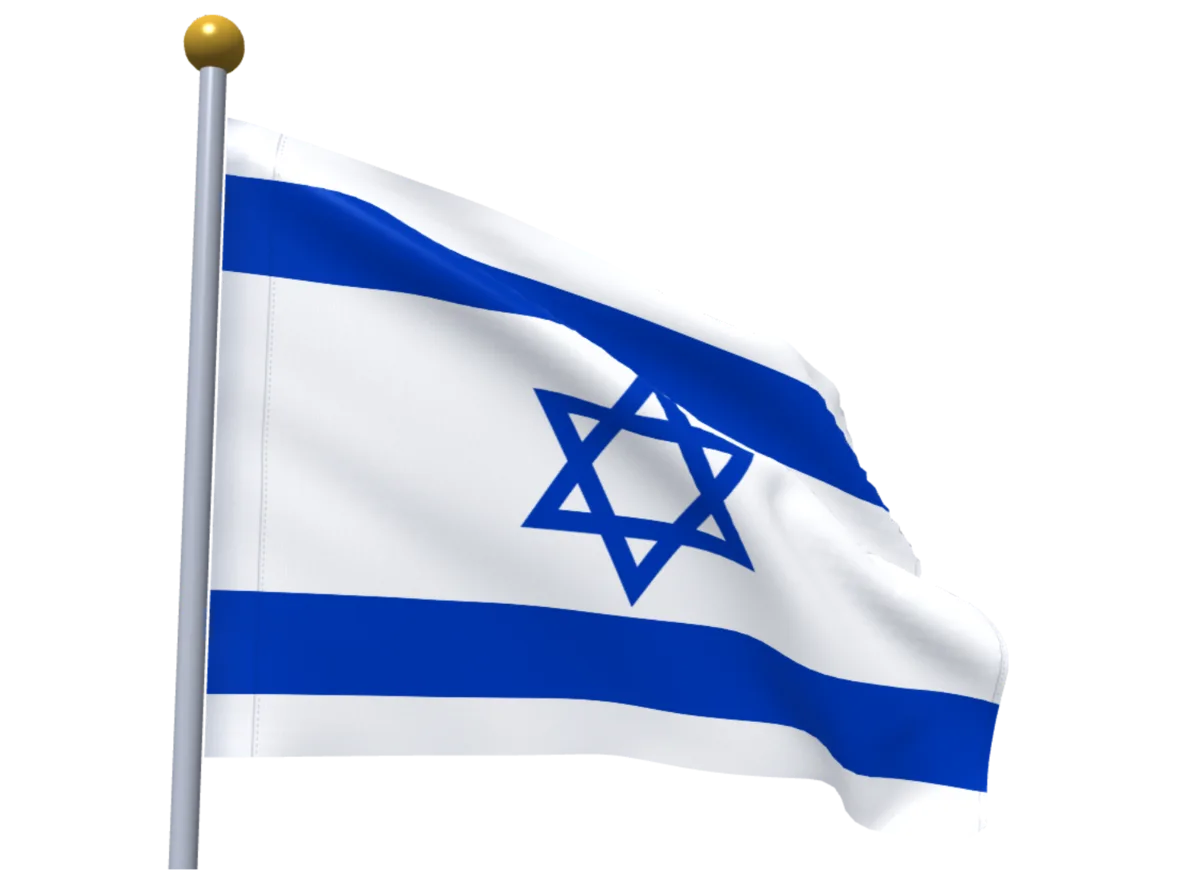
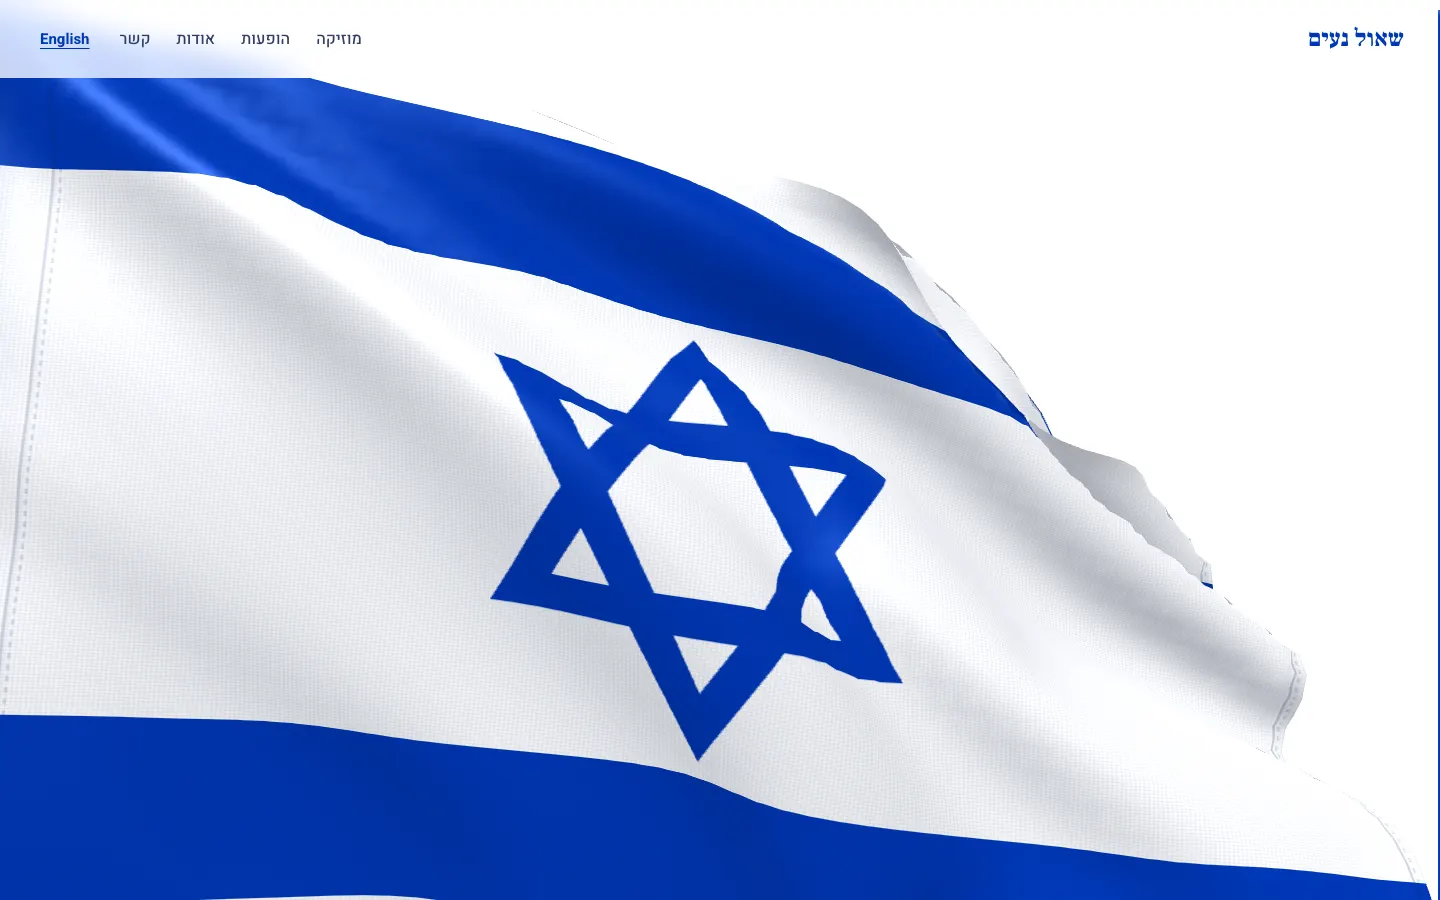
Hero cinema: the 3D flag fills the whole first screen, title floats on a soft veil; Psalm 133 back under the name; readable header; smoother finial

diff --git a/index.html b/index.html
@@ -23,7 +23,7 @@
 <link rel="preconnect" href="https://fonts.gstatic.com" crossorigin>
 <link href="https://fonts.googleapis.com/css2?family=Frank+Ruhl+Libre:wght@500;700;900&family=Heebo:wght@300;400;500;700;900&family=Suez+One&display=swap" rel="stylesheet" media="print" onload="this.media='all'">
 <noscript><link href="https://fonts.googleapis.com/css2?family=Frank+Ruhl+Libre:wght@500;700;900&family=Heebo:wght@300;400;500;700;900&family=Suez+One&display=swap" rel="stylesheet"></noscript>
-<link rel="stylesheet" href="style.css?v=20261003h1" />
+<link rel="stylesheet" href="style.css?v=20261003c7" />
 <script type="application/ld+json">
 {
   "@context":"https://schema.org","@type":"MusicGroup",
@@ -55,28 +55,29 @@
     <a href="#shows" data-he="הופעות" data-en="Shows">הופעות</a>
     <a href="#about" data-he="אודות" data-en="About">אודות</a>
     <a href="#contact" data-he="קשר" data-en="Contact">קשר</a>
-    <button class="lang-toggle" id="langToggle" aria-pressed="false" data-he-aria="החלף שפה לאנגלית" data-en-aria="Switch language to Hebrew" aria-label="החלף שפה לאנגלית">EN</button>
+    <button class="lang-toggle" id="langToggle" aria-pressed="false" data-he-aria="החלף שפה לאנגלית" data-en-aria="Switch language to Hebrew" aria-label="החלף שפה לאנגלית">English</button>
   </nav>
 </header>
 
 <main id="main">
 
-<section class="hero-v3" aria-labelledby="heroName">
+<section class="hero-v3 cinema" aria-labelledby="heroName">
   <div class="hv3-grid">
     <div class="hv3-text">
       <h1 id="heroName" class="hv3-name" data-he="שאול נעים" data-en="Shaul Naim">שאול נעים</h1>
+      <p class="hv3-psalm" lang="he" aria-label="הנה מה טוב ומה נעים, תהילים קל״ג"><span class="w">הנה</span> <span class="w">מה</span> <span class="w">טוב</span> <span class="w">ומה</span> <span class="w">נעים</span></p>
       <p class="hv3-desc"><span data-he="שירי ארץ ישראל" data-en="Songs of the Land of Israel">שירי ארץ ישראל</span><i class="stripes2" aria-hidden="true"></i><span data-he="שירה בציבור" data-en="Community singing">שירה בציבור</span></p>
       <div class="hv3-row">
         <div class="hv3-actions">
           <a class="btn-v3" href="#singles"><svg class="tri" viewBox="0 0 20 20" aria-hidden="true"><path d="M5 3 17 10 5 17Z"/></svg><span data-he="להאזנה" data-en="Listen">להאזנה</span></a>
           <a class="link-v3" href="#shows" data-he="למופעים" data-en="The shows">למופעים</a>
         </div>
-        <img class="hv3-photo" src="assets/portrait-color.jpg?v=20261003h1" width="1200" height="1500" alt="שאול נעים עם קלידית" data-he-alt="שאול נעים עם קלידית" data-en-alt="Shaul Naim with his keytar" fetchpriority="high" decoding="async">
+        <img class="hv3-photo" src="assets/portrait-color.jpg?v=20261003c7" width="1200" height="1500" alt="שאול נעים עם קלידית" data-he-alt="שאול נעים עם קלידית" data-en-alt="Shaul Naim with his keytar" fetchpriority="high" decoding="async">
       </div>
     </div>
     <div class="hv3-flag" aria-hidden="true">
       <canvas id="siteFlag"></canvas>
-      <img class="flag-still" src="assets/img/flag-still.webp?v=1" alt="" width="1200" height="871">
+      <img class="flag-still" src="assets/img/flag-still.webp?v=2" alt="" width="1440" height="900">
     </div>
     <button class="motion-v3" id="flagPause" type="button" aria-pressed="false" data-he="עצירת תנועה" data-en="Pause motion">עצירת תנועה</button>
   </div>
@@ -118,7 +119,6 @@
 <section id="shows" class="shows paper">
   <div class="container reveal">
     <div class="section-head">
-      <p class="psalm" lang="he"><span>הנה מה טוב ומה נעים</span><small data-he="תהילים קל״ג" data-en="Psalm 133">תהילים קל״ג</small></p>
       <h2 data-he="הופעות" data-en="Live Shows">הופעות</h2>
       <p class="section-sub" data-he="שירה בציבור · ערב שכולו שירים אהובים" data-en="Sing-along evenings of beloved Israeli classics">שירה בציבור · ערב שכולו שירים אהובים</p>
     </div>
@@ -182,19 +182,19 @@
   <p class="small">© <span id="yr"></span> שאול נעים / Shaul Naim</p>
 </footer>
 
-<script src="albums.js?v=20261003h1"></script>
-<script src="releases.js?v=20261003h1"></script>
-<script src="shows.js?v=20261003h1"></script>
-<script src="videos.js?v=20261003h1"></script>
-<script src="app.js?v=20261003h1"></script>
-<script src="flag3d.js?v=20261003h1"></script>
+<script src="albums.js?v=20261003c7"></script>
+<script src="releases.js?v=20261003c7"></script>
+<script src="shows.js?v=20261003c7"></script>
+<script src="videos.js?v=20261003c7"></script>
+<script src="app.js?v=20261003c7"></script>
+<script src="flag3d.js?v=20261003c7"></script>
 <script src="flag.js?v=20261003f2"></script>
 <script>
   (function(){
     var c = document.getElementById('siteFlag'); if(!c) return;
     var mobile = matchMedia('(max-width: 767px)').matches;
-    var cam = mobile ? { eye:[0.10,-0.40,4.70], target:[1.40,0.10,0.00], fov:0.66, wind:0.95 }
-                     : { eye:[-0.65,-0.70,5.00], target:[1.40,0.05,0.00], fov:0.58, wind:0.95 };
+    var cam = mobile ? { eye:[1.30,-0.75,2.35], target:[1.50,-0.30,0.00], fov:1.0, wind:0.95 }
+                     : { eye:[0.95,-0.55,2.75], target:[1.55,0.02,0.00], fov:0.66, wind:0.95 };
     var flag = window.IsraeliFlag3D && IsraeliFlag3D.mount(c, cam);
     if(!flag && window.IsraeliFlag){ var st=c.parentNode.querySelector('.flag-still'); if(st) st.style.display='none'; IsraeliFlag.mount(c, { transparentBackground:true, windStrength:1, showPole:true }); }
     var btn = document.getElementById('flagPause');

diff --git a/style.css b/style.css
@@ -554,3 +554,53 @@ a.card:hover .card-play svg{transform:translateX(2px)}
   .btn-v3{width:190px}
   .psalm{font-size:32px}
 }
+
+/* ================================================================
+   HERO CINEMA v3: the flag is the whole background; the title floats on it.
+   ================================================================ */
+.hero-v3.cinema{padding:0;height:100svh;min-height:600px;background:#fff;position:relative;overflow:hidden}
+.cinema .hv3-grid{max-width:none;height:100%;display:block;position:relative}
+.cinema .hv3-flag{position:absolute;inset:0;width:100%;height:100%;aspect-ratio:auto;transform:none!important}
+.cinema .hv3-text{display:flex;flex-direction:column;align-items:center;justify-content:flex-end;text-align:center;
+  position:absolute;inset:0;z-index:3;padding:0 24px 9vh;pointer-events:none}
+.cinema .hv3-text > *{pointer-events:auto}
+/* a soft white veil (no box) so the title reads over the moving cloth */
+.cinema .hv3-text::before{content:"";position:absolute;inset-inline:0;bottom:0;height:62%;z-index:-1;
+  background:radial-gradient(70% 85% at 50% 82%,rgba(255,255,255,.97) 0%,rgba(255,255,255,.86) 40%,rgba(255,255,255,0) 78%)}
+.cinema .hv3-name{font-size:clamp(76px,10.5vw,168px);line-height:1;font-weight:900;color:var(--v3-blue);white-space:nowrap}
+.cinema .hv3-desc{justify-content:center;margin:20px 0 0;font-size:19px}
+.cinema .hv3-row,.cinema .hv3-photo{display:none}
+.cinema .motion-v3{position:absolute;bottom:18px;inset-inline-start:24px;z-index:4;background:rgba(255,255,255,.8);border-radius:4px}
+@media (max-width:767px){
+  .hero-v3.cinema{height:92svh}
+  .cinema .hv3-text{padding-bottom:11vh}
+  .cinema .hv3-name{font-size:clamp(62px,19vw,84px)}
+  .cinema .hv3-text::before{height:58%;background:radial-gradient(95% 80% at 50% 78%,rgba(255,255,255,.97) 0%,rgba(255,255,255,.85) 45%,rgba(255,255,255,0) 80%)}
+}
+/* header: readable Hebrew, no Latin letter-spacing, a quiet language link */
+.nav nav a{font-family:"Heebo",sans-serif!important;font-size:16px!important;letter-spacing:0!important;text-transform:none!important;font-weight:500!important}
+.lang-toggle{border:0!important;background:none!important;font-family:"Heebo",sans-serif!important;font-size:15px!important;letter-spacing:0!important;
+  text-decoration:underline;text-underline-offset:4px;padding:6px 4px!important;color:var(--v3-blue)!important}
+.brand{font-family:"Frank Ruhl Libre",serif!important;font-weight:900!important;font-size:24px!important;color:var(--v3-blue)!important}
+.brand::before,.brand::after{display:none!important}
+/* the sentence we love: Psalm 133, the film's tagline under the name */
+.hv3-psalm{margin:14px 0 0;font-family:"Frank Ruhl Libre",serif;font-weight:700;color:var(--v3-ink);
+  font-size:clamp(30px,3.6vw,54px);line-height:1.15}
+.hv3-psalm .w{display:inline-block}
+@media (prefers-reduced-motion: no-preference){
+  .hv3-psalm .w{opacity:0;transform:translateY(10px);animation:psalmIn .7s var(--v3-ease) forwards}
+  .hv3-psalm .w:nth-child(1){animation-delay:.25s}.hv3-psalm .w:nth-child(2){animation-delay:.4s}
+  .hv3-psalm .w:nth-child(3){animation-delay:.55s}.hv3-psalm .w:nth-child(4){animation-delay:.7s}
+  .hv3-psalm .w:nth-child(5){animation-delay:.85s;color:var(--v3-blue)}
+}
+@keyframes psalmIn{to{opacity:1;transform:none}}
+.hv3-psalm .w:nth-child(5){color:var(--v3-blue)}
+@media (max-width:767px){ .hv3-psalm{font-size:clamp(26px,8vw,34px)} }
+.cinema .hv3-name{align-self:center;margin:0}
+.cinema .hv3-psalm{margin-top:12px}
+/* the header floats above the cloth on a soft white glass */
+body:has(.hero-v3.cinema) .nav{background:rgba(255,255,255,.78);backdrop-filter:saturate(1.3) blur(12px);-webkit-backdrop-filter:saturate(1.3) blur(12px)}
+@media (max-width:767px){
+  .cinema .hv3-text::before{height:66%;background:linear-gradient(180deg,rgba(255,255,255,0) 0%,rgba(255,255,255,.82) 38%,rgba(255,255,255,.95) 70%,#fff 100%)}
+}
+.cinema .hv3-flag .flag-still{object-fit:cover}

diff --git a/flag3d.js b/flag3d.js
@@ -165,7 +165,7 @@
       return { p: new Float32Array(p), n: new Float32Array(n), i: new Uint16Array(ix) };
     }
     var pr = 0.045;
-    var poleM = cylinder(pr, -3.4, top + 0.16, 24), ballM = sphere(pr * 2.3, -pr * 1.2, top + 0.16 + pr * 2.1, 18);
+    var poleM = cylinder(pr, -3.4, top + 0.16, 24), ballM = sphere(pr * 1.65, -pr * 1.2, top + 0.16 + pr * 1.55, 40);
     function meshBufs(m) { return { p: buf(m.p, gl.STATIC_DRAW), n: buf(m.n, gl.STATIC_DRAW),
       i: (function () { var b = gl.createBuffer(); gl.bindBuffer(gl.ELEMENT_ARRAY_BUFFER, b); gl.bufferData(gl.ELEMENT_ARRAY_BUFFER, m.i, gl.STATIC_DRAW); return b; })(), c: m.i.length }; }
     var pole = meshBufs(poleM), ball = meshBufs(ballM);

diff --git a/app.js b/app.js
@@ -37,7 +37,7 @@ function applyLang(l){
   document.querySelectorAll('[data-he]').forEach(el=>{ const v = el.dataset[l]; if(v != null) el.textContent = v; });
   document.querySelectorAll('[data-he-aria]').forEach(el=>{ const v = el.dataset[l+'Aria']; if(v != null) el.setAttribute('aria-label', v); });
   const lt = document.getElementById('langToggle');
-  lt.textContent = (l === 'he') ? 'EN' : 'עב';
+  lt.textContent = (l === 'he') ? 'English' : 'עברית';
   lt.setAttribute('aria-pressed', String(l === 'en'));
   renderGrid();
   renderAlbums();
